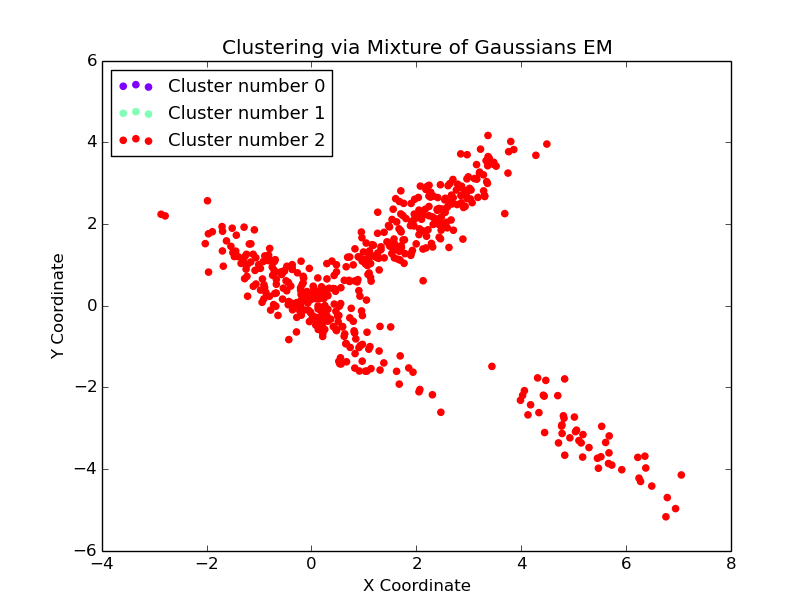
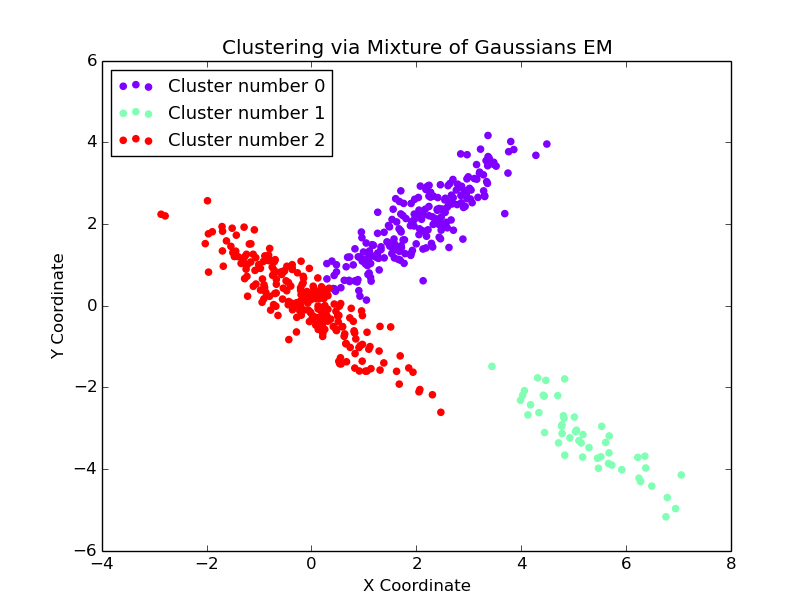
Working version of gaussmix

diff --git a/homework1/gaussmix/gaussmix.py b/homework1/gaussmix/gaussmix.py
@@ -218,6 +218,7 @@ def gaussmixem(data, k):
     gauss_weights = copy.deepcopy(initial_gauss_weights)
     while(tolerance):
         #E-step - update the assignments
+        #print(gauss_means, gauss_covars, gauss_weights)
         begin_likelihood = log_likelihood(data, gauss_means, gauss_covars, gauss_weights)
         for point in data:
             normals = list()
@@ -230,7 +231,7 @@ def gaussmixem(data, k):
             for i in range(0, len(point[-1])):
                 pij = (gauss_weights[i]*normals[i]) / sum_weights_norms
                 point[-1][i] = pij
-            print(point[-1])
+            #print(np.argmax(point[-1]))
         #M-step - updating weights, means, covars
         pij_sum = list()
         for i in range(0, k):
@@ -242,42 +243,58 @@ def gaussmixem(data, k):
         n = len(data)
         for j in range(0, k):
             gauss_weights[j] = pij_sum[j] / float(n)
+        #print(gauss_weights)
         pij_xi_sum = list()
         #Below this line doesn't properly support beyond 2D points
         for i in range(0, k):
-            pij_xi_sum.append([0, 0])
+            pij_xi_sum.append([0.0, 0.0])
         pij_xi_sum = np.asarray(pij_xi_sum)
         for point in data:
             for i in range(0, len(point[-1])):
+                #print(np.asarray(point[:-1]))
+                #print(point[-1][i])
                 temp_point = np.asarray(point[:-1])*point[-1][i]
-                pij_xi_sum[i] = np.add(pij_xi_sum[i], temp_point)
+                pij_xi_sum[i] = pij_xi_sum[i] + temp_point
+        #print(pij_xi_sum, pij_sum)
         for j in range(0, k):
             gauss_means[j] = pij_xi_sum[j] / pij_sum[j]
         pij_sum_x_mu = list()
         for i in range (0, k):
-            pij_sum_x_mu.append([[0,0], [0,0]])
+            pij_sum_x_mu.append([[0.0,0.0], [0.0,0.0]])
         pij_sum_x_mu = np.asarray(pij_sum_x_mu)
         for point in data:
             for i in range(0, len(point[-1])):
-                pij_sum_x_mu[i] += [[1, 1], [1,1]]
                 temp_point = np.asarray(point[:-1])
                 temp_mean = np.asarray(gauss_means[i])
+                #print(temp_point, temp_mean)
                 point_minus_mean = temp_point - temp_mean
                 #print(point_minus_mean)
-                #print(point[-1][i])
+                #print(i, point[-1][i])
                 product = np.outer(point_minus_mean, point_minus_mean)*point[-1][i] #Necessitates data points be represented as one dimensional arrays
-                pij_sum_x_mu[i] = np.add(pij_sum_x_mu[i], product)
-        for point in data:
-            if(iteration > 0):
-                index, value = max(enumerate(data[-1]), key=operator.itemgetter(1))
-                if(index != 2):
-                    sys.exit()
+                #print(product)
+                #print(pij_sum_x_mu[i] + product)
+                #print(pij_sum_x_mu)
+                #print(product)
+                pij_sum_x_mu[i] = np.add(pij_sum_x_mu[i], product, casting='no')
+                #print(pij_sum_x_mu[i])
         for j in range(0, k):
             gauss_covars[j] = pij_sum_x_mu[j] / pij_sum[j]
+        #print(gauss_covars)
+        """for point in data:
+            if(iteration > 0):
+                index = np.argmax(point[-1])
+                print(index)
+                if(index != 2):
+                    print("Past iteration 1 and still okay")
+                    sys.exit()
+        """
         after_likelihood = log_likelihood(data, gauss_means, gauss_covars, gauss_weights)
         tolerance = em_tolerance(begin_likelihood, after_likelihood)
         iteration += 1
         likelihood.append([after_likelihood, iteration])
+        #print(gauss_means, gauss_covars, gauss_weights)
+        #sys.exit()
+        #print(iteration)
     return data, likelihood
 
 
@@ -286,8 +303,10 @@ data = loaddata("toydata.txt")
 cluster_number = 3
 output, output_likelihood = gaussmixem(data, cluster_number)
 
+#print(output_likelihood)
+
 for point in output:
-    index, value = max(enumerate(output[-1]), key=operator.itemgetter(1))
+    index = np.argmax(point[-1])
     point.pop()
     point.append(index)
 
